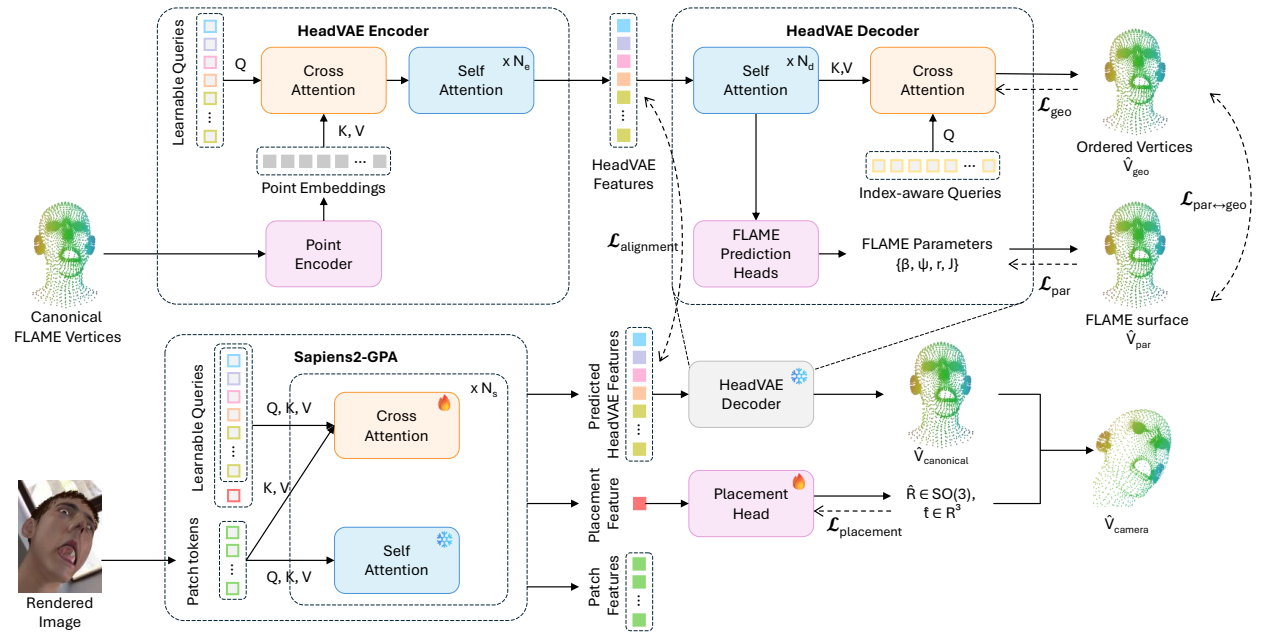
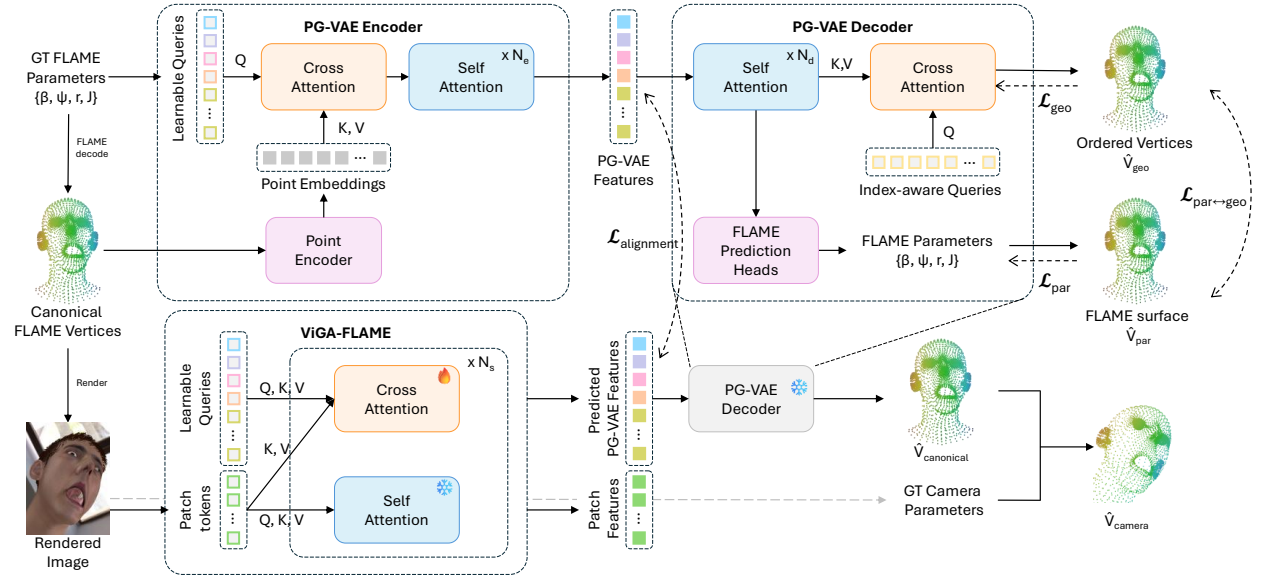
modify 09162141

diff --git a/index.html b/index.html
@@ -3,10 +3,10 @@
 <head>
   <meta charset="utf-8">
   <meta name="description"
-        content="Sapiens2-GPA aligns latent visual and geometric representations for robust 3D head expression estimation.">
-  <meta name="keywords" content="Sapiens2-GPA, 3D Head, Expression Estimation">
+        content="ViGA-FLAME aligns latent visual and geometric representations for robust 3D head expression estimation.">
+  <meta name="keywords" content="ViGA-FLAME, 3D Head, Expression Estimation">
   <meta name="viewport" content="width=device-width, initial-scale=1">
-  <title>Sapiens2-GPA</title>
+  <title>ViGA-FLAME</title>
 
   <!-- Global site tag (gtag.js) - Google Analytics -->
   <script async src="https://www.googletagmanager.com/gtag/js?id=G-PYVRSFMDRL"></script>
@@ -63,7 +63,7 @@
     <div class="container is-max-desktop">
       <div class="columns is-centered">
         <div class="column has-text-centered">
-          <h1 class="title is-1 publication-title">Sapiens2-GPA:<br/>Aligning Latent Visual and Geometric Representations for Robust 3D Head Expression Estimation</h1>
+          <h1 class="title is-1 publication-title">VIGA-FLAME:<br/>Aligning Latent Visual and Geometric Representations for Robust 3D Head Expression Estimation</h1>
           <div class="is-size-5 publication-authors">
             <span class="author-block">
               Wen Hao He,</span>
@@ -117,20 +117,21 @@
         <h2 class="title is-3">Abstract</h2>
         <div class="content has-text-justified">
           <p>
-            Parametric 3D head estimation from a single image requires jointly reasoning about
-            detailed geometry, facial expression, head pose, and camera configuration.
-            We propose a two-stage framework that aligns visual features with a unified geometric
-            prior.
-            First, HeadVAE learns a structured latent representation from canonical, ordered FLAME
-            point clouds, jointly capturing fine-grained geometry and interpretable FLAME parameters
-            through geometric reconstruction, parameter supervision, decoded-surface supervision, and
-            dual-branch consistency.
-            Second, we introduce the Sapiens2 Geometry and Placement Adapter <b>(Sapiens2-GPA)</b>, which
-            reads frozen contextual tokens from a pre-trained Sapiens2 encoder while preserving its
-            original semantic stream.
-            Experiments show high-quality geometric reconstruction and FLAME parameter estimation
-            over feed-forward baselines, with qualitatively robust performance under visual domain
-            shift.
+            Estimating 3D head expression from a single image requires linking visual appearance to
+            facial geometry. We propose ViGA-FLAME, a two-stage framework that aligns semantic
+            visual features with a structured geometric latent space. First, a Parametric–Geometric
+            Variational Autoencoder (PG-VAE) learns a shared representation of canonical head
+            surfaces and FLAME parameters, supporting both detailed surface reconstruction and
+            interpretable parameter recovery. Supervision on geometry and parameters, together with
+            consistency between the two decoding branches, connects surface detail with parametric
+            structure. Second, a trainable adapter maps features from a pretrained semantic visual
+            encoder, Sapiens2, into this latent space. Asymmetric attention allows the adapter to
+            read contextual features while preserving the encoder's original semantic outputs.
+            By aligning visual semantics with geometric structure, ViGA-FLAME enables coherent,
+            feed-forward reconstruction under extreme expressions and profile views, outperforming
+            competing methods on challenging synthetic and real-world benchmarks.
+            Comprehensive visualization could be found via
+            <a href="https://sapiens2-gpa.github.io/Sapiens2-GPA/"><i>ViGA-FLAME</i></a>.
           </p>
         </div>
       </div>
